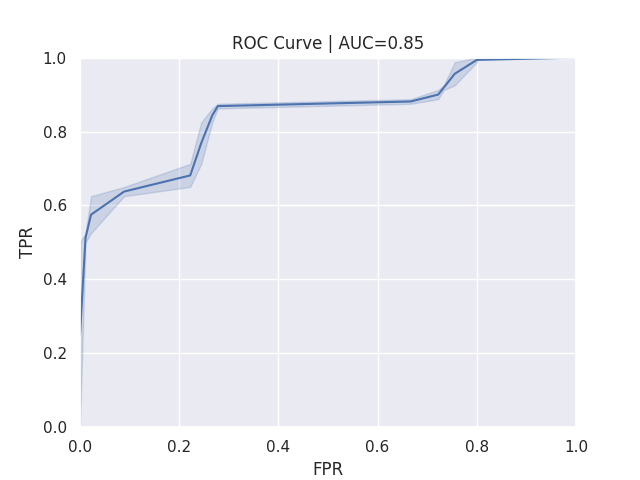
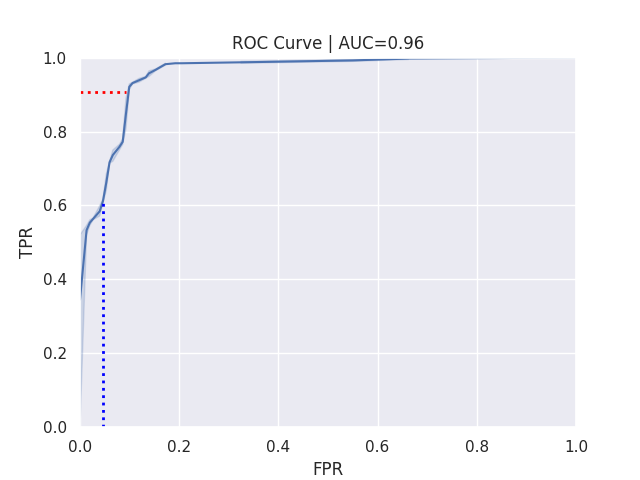
framework opt

diff --git a/main.py b/main.py
@@ -35,7 +35,7 @@ def loadingConfig(configFileRoot="./data/", configFileName="config.conf"):
 
 
 def evaluationProcess(labeledDict, size=(150, 100), super_pixel_set=(15, 10), posLabel=1,
-                      saving_output=True, hard_case_topN=10):
+                      saving_output=True, hard_case_topN=10, plotSaveName="ROC_Metrics.png"):
     labelSeries = []
     probSeries = []
     caseSeries = {}
@@ -45,9 +45,10 @@ def evaluationProcess(labeledDict, size=(150, 100), super_pixel_set=(15, 10), po
         tmp_prob = []
         for data in labeledDict[label]:
             tmp_label.append(label)
-            frame = cv2.imread(data, 0)
+            frame = cv2.imread(data)
             tmp_prob.append(od.OcclusionDetector(
                 frame, size, super_pixel_set))
+            # tmp_prob.append(od.SaturationDetector(frame,size))
         labelSeries.extend(tmp_label)
         probSeries.extend(tmp_prob)
         if label == posLabel:
@@ -63,7 +64,7 @@ def evaluationProcess(labeledDict, size=(150, 100), super_pixel_set=(15, 10), po
     neg_hc = em.HardCaseMining(
         caseSeries["neg"]["case"], caseSeries["neg"]["prob"], "neg", topN=hard_case_topN)
     auc_metrics = em.ROCMetrics(
-        labelSeries, probSeries, posLabel=posLabel, saving=saving_output)
+        labelSeries, probSeries, posLabel=posLabel, saving=saving_output, plotSaveName=plotSaveName)
 
     return auc_metrics, pos_hc, neg_hc
 
@@ -85,7 +86,9 @@ def showHardCases(hcResult, hcType, showSize=(600, 400)):
 if __name__ == "__main__":
 
     labeledDict = loadingConfig()
-    auc_metrics, pos_hc, neg_hc = evaluationProcess(labeledDict)
+    auc_metrics, pos_hc, neg_hc = evaluationProcess(labeledDict, hard_case_topN=20,
+                                                    super_pixel_set=(25, 20),
+                                                    plotSaveName="ROC_Metrics.png")
     print("—————————————————————————————————————————")
     print("|    AUC Metrics Achieved: ", round(auc_metrics, 5), "    |")
     print("—————————————————————————————————————————")

diff --git a/src/OcclusionDetector.py b/src/OcclusionDetector.py
@@ -17,17 +17,23 @@ def OcclusionDetector(frame, size=(150, 100), super_pixel_set=(3, 2)):
 
     # resize
     frame = cv2.resize(frame, size)
-    # cv2.imshow("winname", frame)
-    # cv2.waitKey(0)
-    frame = cv2.GaussianBlur(frame, (5, 5), 0)
+
+    # channel extraction
+    frame = cv2.cvtColor(frame, cv2.COLOR_BGR2HSV)
+    ch1, ch2, ch3 = cv2.split(frame)
+    # ch3 = cv2.cvtColor(frame, cv2.COLOR_BGR2GRAY)
+    frame = cv2.GaussianBlur(ch3, (5, 5), 0)
+
     # edge detection
     sobelX = cv2.Sobel(frame, cv2.CV_16S, 1, 0, ksize=3)
     sobelY = cv2.Sobel(frame, cv2.CV_16S, 0, 1, ksize=3)
     absX = cv2.convertScaleAbs(sobelX)   # 转回uint8
     absY = cv2.convertScaleAbs(sobelY)
     dst = cv2.addWeighted(absX, 0.5, absY, 0.5, 0)
+
     # thresholding
     ret, thresh = cv2.threshold(dst, 50, 1, cv2.THRESH_BINARY)
+
     # super pixel setting
     w_num_pixel = int(size[0]/super_pixel_set[0])
     h_num_pixel = int(size[1]/super_pixel_set[1])
@@ -44,8 +50,24 @@ def OcclusionDetector(frame, size=(150, 100), super_pixel_set=(3, 2)):
     return min(1, score)
 
 
+def SaturationDetector(frame, size=(150, 100)):
+    # resize
+    frame = cv2.resize(frame, size)
+
+    # channel extraction
+    frame = cv2.cvtColor(frame, cv2.COLOR_BGR2HSV)
+    ch1, ch2, ch3 = cv2.split(frame)
+    frame = cv2.GaussianBlur(ch1, (5, 5), 0)
+    cv2.imshow("winname", frame)
+    cv2.waitKey(0)
+    score = 1-np.mean(frame)/255
+    print(score)
+    return min(1, score)
+
+
 if __name__ == "__main__":
 
-    frame = cv2.imread('../data/Occluded/309.jpg', 0)
-    score = OcclusionDetector(frame)
+    frame = cv2.imread('../data/Exposed/209.jpg')
+    score = SaturationDetector(frame)
+    # score = OcclusionDetector(frame)
     print(score)

diff --git a/src/EvaluationMetrics.py b/src/EvaluationMetrics.py
@@ -1,23 +1,48 @@
+import os
 import seaborn as sns
 import matplotlib.pyplot as plt
+from matplotlib.lines import Line2D
 from sklearn.metrics import roc_curve, auc
 import numpy as np
 
 
-def ROCMetrics(labelSeries, probSeries, posLabel=1, saving=False):
+def ROCMetrics(labelSeries, probSeries, posLabel=1, saving=False, plotSaveName="ROC_Metrics.png",
+               fprThresh=0.05, tprThresh=0.9):
     fpr, tpr, thresholds = roc_curve(
         labelSeries, probSeries, pos_label=posLabel)
     auc_metrics = auc(fpr, tpr)
+
+    x_f, y_f = 0, 0
+    x_t, y_t = 0, 0
+    for _idx_f, f in enumerate(fpr):
+        if f > fprThresh:
+            x_f = fpr[max(0, _idx_f-1)]
+            y_f = tpr[max(0, _idx_f-1)]
+            break
+    for _idx_t, t in enumerate(tpr):
+        if t >= tprThresh:
+            x_t = fpr[_idx_t]
+            y_t = tpr[_idx_t]
+            break
+    line_f = [(x_f, 0), (x_f, y_f)]
+    line_t = [(0, y_t), (x_t, y_t)]
+    (linef_xs, linef_ys) = zip(*line_f)
+    (linet_xs, linet_ys) = zip(*line_t)
+
     # depict the ROC metrics
     sns.set()
-    _ = sns.lineplot(x=fpr, y=tpr)
+    ax = sns.lineplot(x=fpr, y=tpr)
+    ax.add_line(Line2D(linef_xs, linef_ys, linewidth=2,
+                       color='blue', linestyle=':'))
+    ax.add_line(Line2D(linet_xs, linet_ys, linewidth=2,
+                       color='red', linestyle=':'))
     plt.xlim(0, 1)
     plt.ylim(0, 1)
     plt.xlabel("FPR")
     plt.ylabel("TPR")
     plt.title("ROC Curve | AUC="+str(round(auc_metrics, 2)))
     if saving:
-        plt.savefig('./plots/ROC_Metrics.png')
+        plt.savefig(os.path.join("./plots/", plotSaveName))
     plt.show()
 
     return auc_metrics
